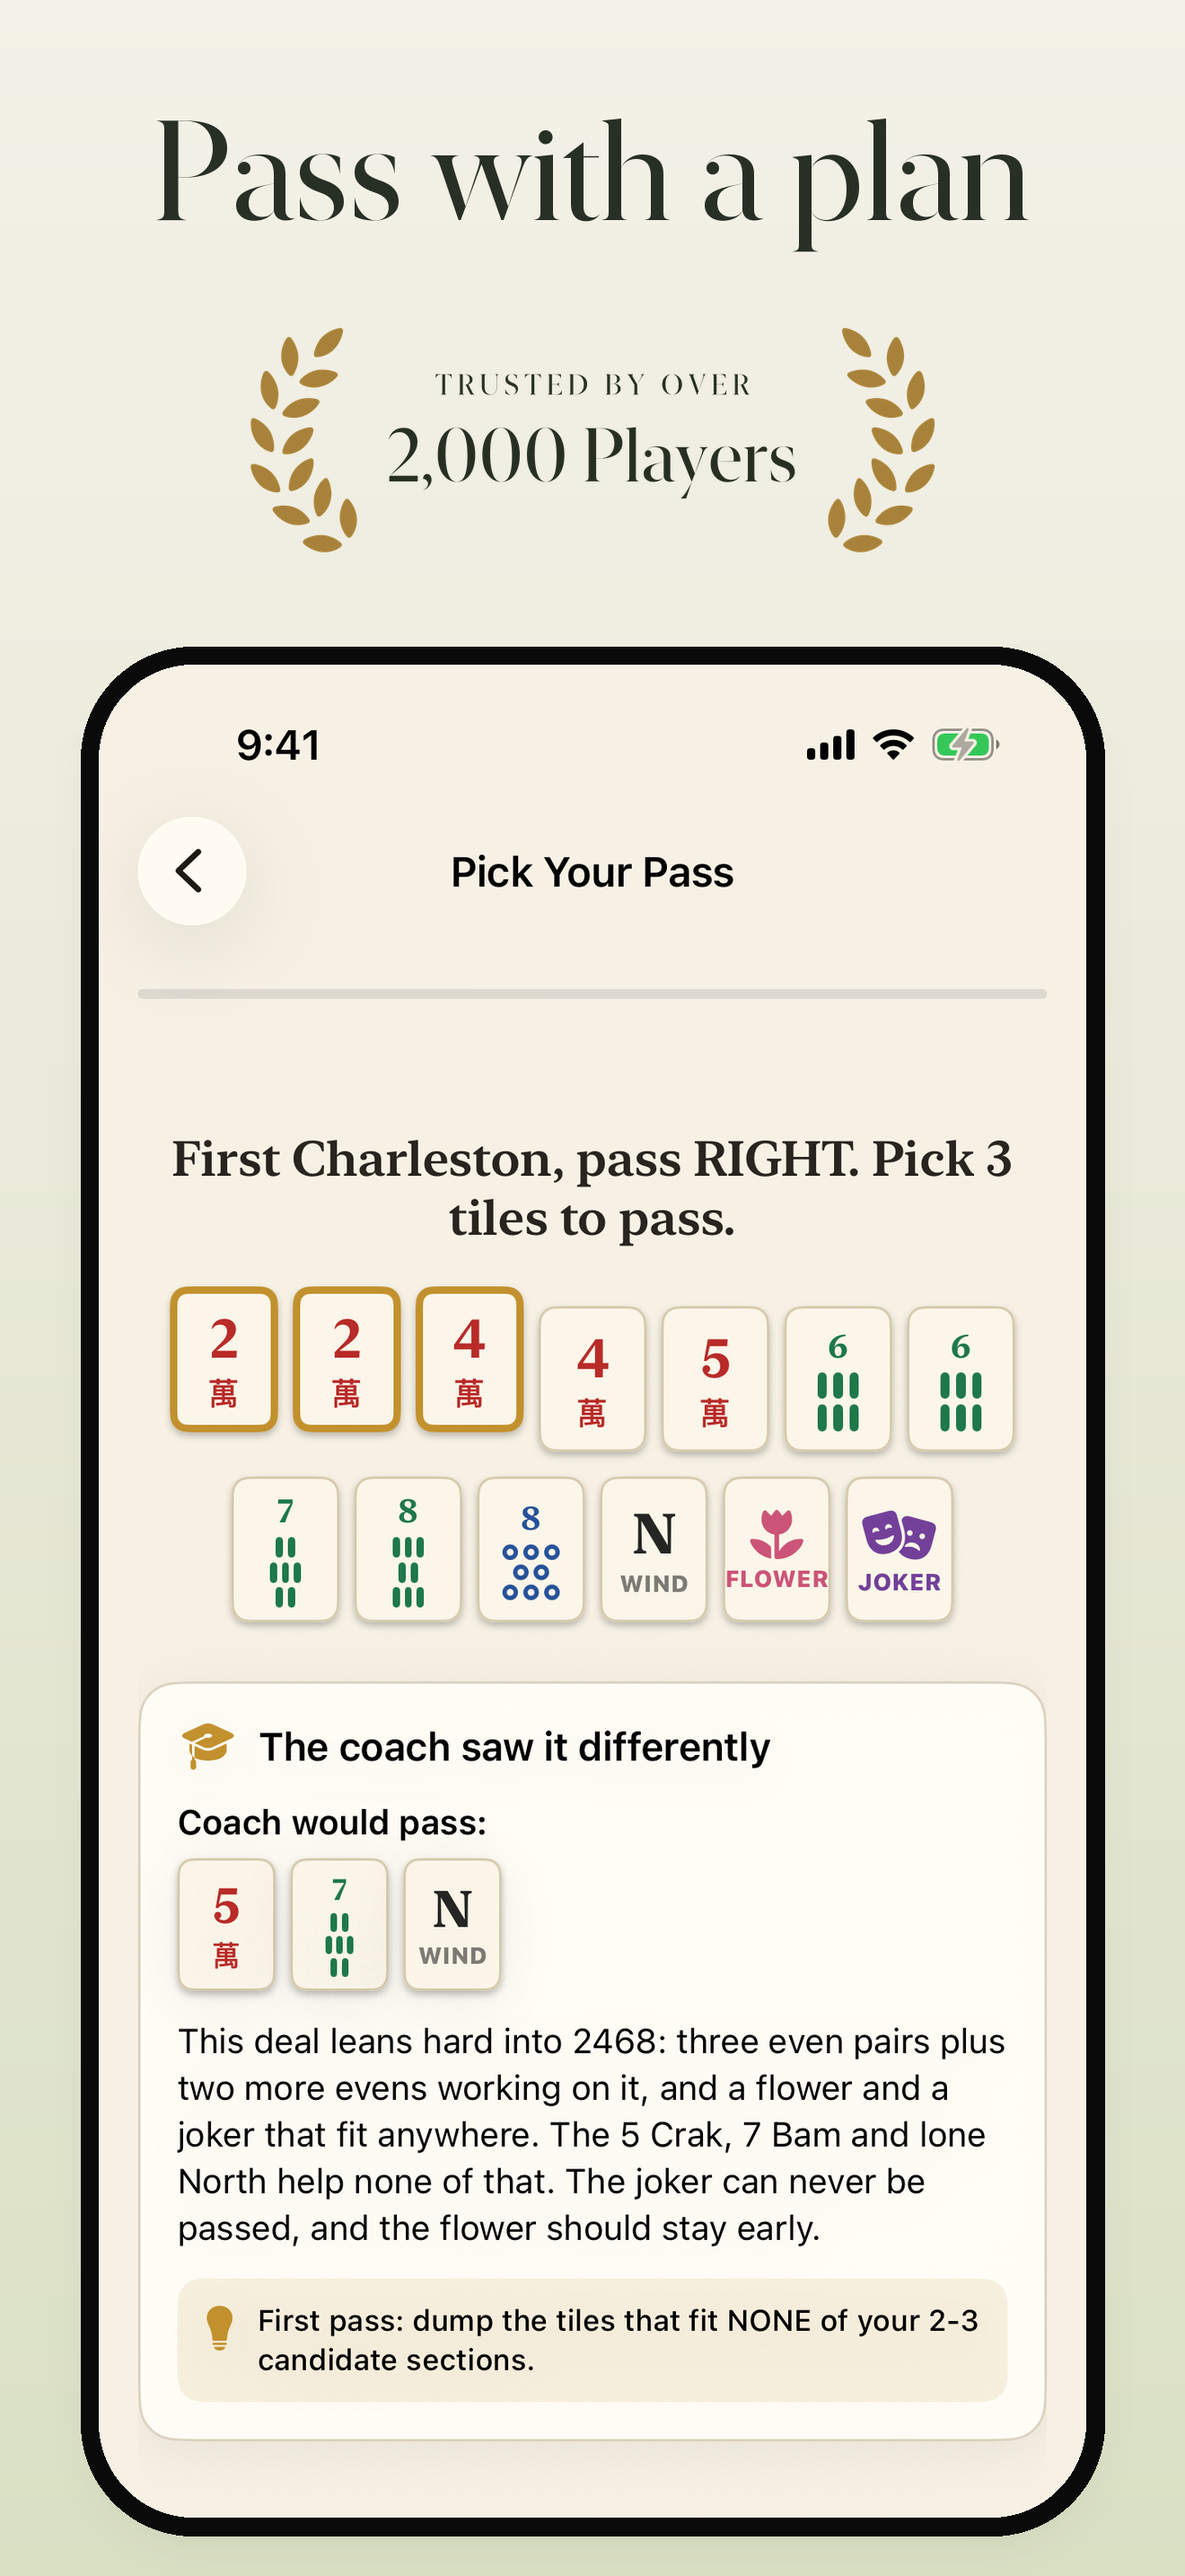
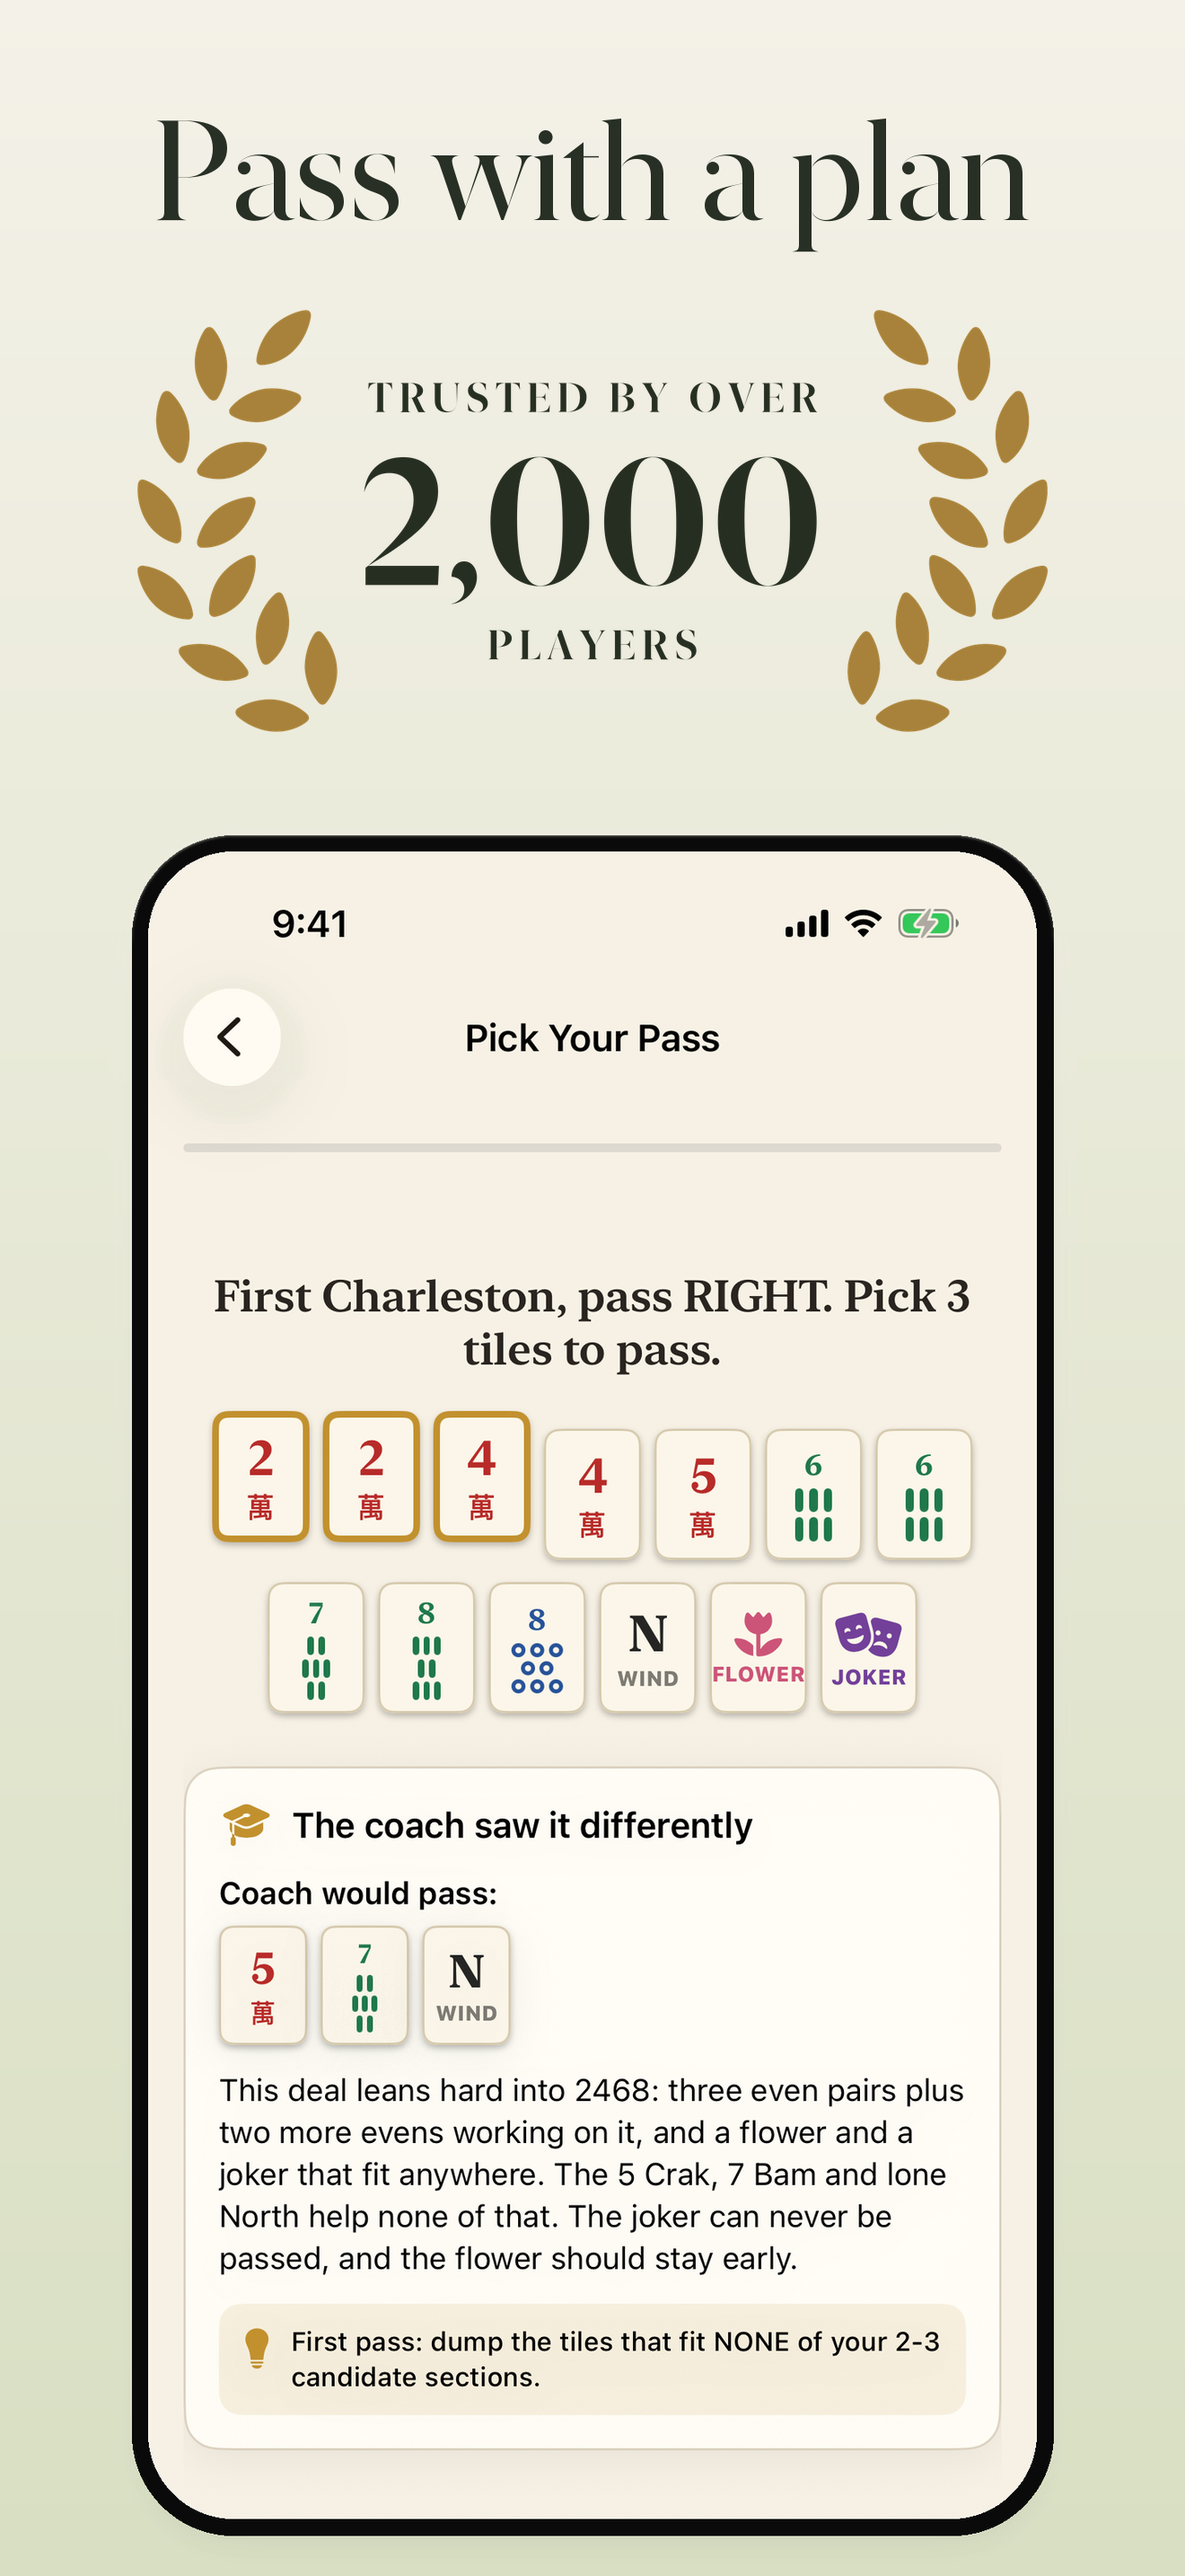
docs(ppo): enlarge laurel badges to headline-size hero, scale phone to fit

Changed region(s): [[0.0621, 0.1241, 0.9318, 0.993], [0.1864, 0.3724, 0.2174, 0.4034]]

diff --git a/project-docs/ppo/laurel-2026-11/make_laurel.py b/project-docs/ppo/laurel-2026-11/make_laurel.py
@@ -1,28 +1,40 @@
 """Laurel badge treatments for Mahj screenshot 1 (PPO test, 2026-11).
 
+Layout follows the store's best performing laurel screenshots (Period Tracker
+"Trusted by 300M women", Sudoku.com "5,000,000+ 5-Star Ratings", MyNetDiary
+"Loved by 32M+ people"): the claim is a bold hero close to headline size and
+the wreath spans most of the width, so it reads in search results. The phone
+is scaled down to make room instead of cropped.
+
 The branches are Apple's laurel.leading / laurel.trailing symbols in gold,
 rendered by render_laurel.swift into laurel_left.png and laurel_right.png.
 """
-from PIL import Image, ImageDraw, ImageFont
+from PIL import Image, ImageChops, ImageDraw, ImageFilter, ImageFont
 
 SRC = "/Users/jackwallner/mahj/fastlane/screenshots/en-US/01_pass_with_a_plan.png"
 SERIF = "/System/Library/Fonts/NewYork.ttf"
 INK = (38, 46, 34)
 SS = 3
-BW, BH = 1320, 300
-SHIFT = 150
-CUT = 330
-LAUREL_H = 250
-GAP = 34
+CUT = 330          # headline ends here in the source
+BADGE_H = 560      # height of the badge band under the headline
+PHONE_SCALE = 0.9  # phone shrinks so it still fits whole below the badge
+LAUREL_H = 470
+GAP = 26
 
 
-def spaced(d: ImageDraw.ImageDraw, center: tuple[float, float], text: str,
-           font: ImageFont.FreeTypeFont, track: float) -> float:
-    widths = [d.textlength(ch, font=font) for ch in text]
+def font(size: int, weight: str) -> ImageFont.FreeTypeFont:
+    f = ImageFont.truetype(SERIF, size * SS)
+    f.set_variation_by_name(weight)
+    return f
+
+
+def spaced(d: ImageDraw.ImageDraw, cx: float, cy: float, text: str,
+           f: ImageFont.FreeTypeFont, track: float) -> float:
+    widths = [d.textlength(ch, font=f) for ch in text]
     total = sum(widths) + track * (len(text) - 1)
-    x = center[0] - total / 2
+    x = cx - total / 2
     for ch, w in zip(text, widths):
-        d.text((x, center[1]), ch, font=font, fill=INK, anchor="lm")
+        d.text((x, cy), ch, font=f, fill=INK, anchor="lm")
         x += w + track
     return total
 
@@ -34,45 +46,76 @@ def laurel(path: str) -> Image.Image:
     return img.resize((round(img.width * h / img.height), h), Image.LANCZOS)
 
 
-def badge(top: str, big: str) -> Image.Image:
-    W, H = BW * SS, BH * SS
+def badge(lines: list[tuple[str, int, str, int]], width: int) -> Image.Image:
+    """lines: (text, size, weight, tracking); tracked lines are set in caps."""
+    W, H = width * SS, BADGE_H * SS
     img = Image.new("RGBA", (W, H), (0, 0, 0, 0))
     d = ImageDraw.Draw(img)
-    cx, cy = W / 2, H / 2
-    ft = ImageFont.truetype(SERIF, 32 * SS)
-    fb = ImageFont.truetype(SERIF, 84 * SS)
-    top_w = spaced(d, (cx, cy - 62 * SS), top.upper(), ft, 6 * SS)
-    d.text((cx, cy + 16 * SS), big, font=fb, fill=INK, anchor="mm")
-    half = max(top_w, d.textlength(big, font=fb)) / 2 + GAP * SS
+    cx = W / 2
+    heights = [size * SS * 1.12 for _, size, _, _ in lines]
+    y = H / 2 - sum(heights) / 2
+    widest = 0.0
+    for (text, size, weight, track), h in zip(lines, heights):
+        f = font(size, weight)
+        cy = y + h / 2
+        if track:
+            w = spaced(d, cx, cy, text.upper(), f, track * SS)
+        else:
+            d.text((cx, cy), text, font=f, fill=INK, anchor="mm")
+            w = d.textlength(text, font=f)
+        widest = max(widest, w)
+        y += h
+    half = widest / 2 + GAP * SS
     left, right = laurel("laurel_left.png"), laurel("laurel_right.png")
-    y = round(cy - left.height / 2)
-    img.alpha_composite(left, (round(cx - half - left.width), y))
-    img.alpha_composite(right, (round(cx + half), y))
-    return img.resize((BW, BH), Image.LANCZOS)
+    ly = round(H / 2 - left.height / 2)
+    img.alpha_composite(left, (round(cx - half - left.width), ly))
+    img.alpha_composite(right, (round(cx + half), ly))
+    return img.resize((width, BADGE_H), Image.LANCZOS)
 
 
-def compose(top: str, big: str, out: str) -> Image.Image:
+def background(src: Image.Image) -> Image.Image:
+    """The source background is a vertical gradient, uniform across each row."""
+    return src.crop((0, 0, 1, src.height)).resize(src.size)
+
+
+def compose(lines: list[tuple[str, int, str, int]], out: str) -> Image.Image:
     src = Image.open(SRC).convert("RGB")
     W, H = src.size
-    canvas = Image.new("RGB", (W, H))
+    bg = background(src)
+    canvas = bg.copy()
     canvas.paste(src.crop((0, 0, W, CUT)), (0, 0))
-    canvas.paste(src.crop((0, CUT, W, H - SHIFT)), (0, CUT + SHIFT))
-    canvas.paste(src.crop((0, CUT, W, CUT + 1)).resize((W, SHIFT)), (0, CUT))
-    b = badge(top, big)
-    canvas.paste(b, (0, CUT + 10), b)
+
+    body = src.crop((0, CUT, W, H))
+    diff = ImageChops.difference(body, bg.crop((0, CUT, W, H))).convert("L")
+    mask = diff.point(lambda v: 255 if v > 3 else v * 60).filter(ImageFilter.GaussianBlur(2))
+    sw, sh = round(W * PHONE_SCALE), round(body.height * PHONE_SCALE)
+    body, mask = body.resize((sw, sh), Image.LANCZOS), mask.resize((sw, sh), Image.LANCZOS)
+    top = CUT + BADGE_H - round((570 - CUT) * PHONE_SCALE) + 40
+    canvas.paste(body, ((W - sw) // 2, top), mask)
+
+    b = badge(lines, W)
+    canvas.paste(b, (0, CUT - 30), b)
     canvas.save(out)
     return canvas
 
 
-def side_by_side(frames: list[Image.Image], out: str) -> None:
-    w, h = frames[0].width * 2 // 5, frames[0].height * 2 // 5
-    sheet = Image.new("RGB", (w * len(frames) + 40 * (len(frames) - 1), h), "white")
+def side_by_side(frames: list[Image.Image], out: str, scale: float) -> None:
+    w, h = round(frames[0].width * scale), round(frames[0].height * scale)
+    gap = max(8, round(40 * scale))
+    sheet = Image.new("RGB", (w * len(frames) + gap * (len(frames) - 1), h), "white")
     for i, f in enumerate(frames):
-        sheet.paste(f.resize((w, h), Image.LANCZOS), (i * (w + 40), 0))
+        sheet.paste(f.resize((w, h), Image.LANCZOS), (i * (w + gap), 0))
     sheet.save(out)
 
 
 if __name__ == "__main__":
-    teacher = compose("Recommended by", "Mahj Teachers", "teacher.png")
-    players = compose("Trusted by over", "2,000 Players", "players.png")
-    side_by_side([Image.open(SRC).convert("RGB"), teacher, players], "arms.png")
+    teacher = compose([("Recommended by", 46, "Semibold", 7),
+                       ("Mahj", 150, "Semibold", 0),
+                       ("Teachers", 150, "Semibold", 0)], "teacher.png")
+    players = compose([("Trusted by over", 46, "Semibold", 7),
+                       ("2,000", 200, "Semibold", 0),
+                       ("Players", 46, "Semibold", 7)], "players.png")
+    control = Image.open(SRC).convert("RGB")
+    side_by_side([control, teacher, players], "arms.png", 0.4)
+    # Search results show screenshot 1 at about 1/4 of its pixel width on a phone.
+    side_by_side([control, teacher, players], "arms_search_size.png", 0.18)
